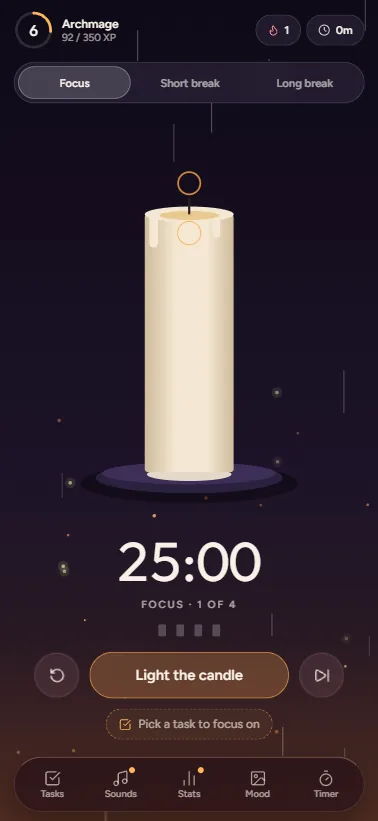
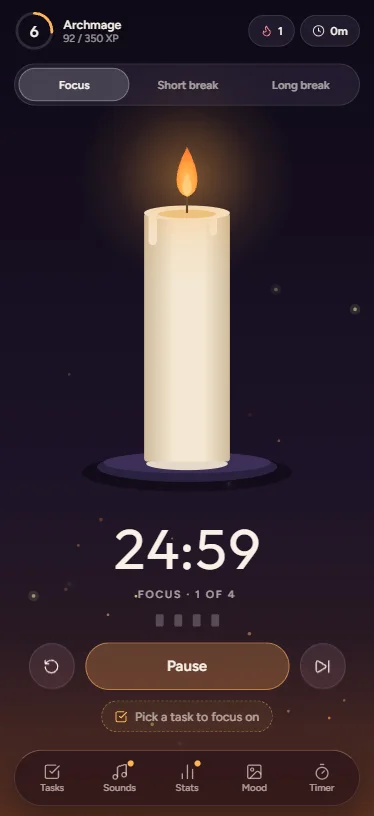
feat(landing): new phone screenshot beside the Android download
Swap mobile.webp for the new screenshots/mobile.png, update its alt text and aspect ratio, and note it in progress.md.

diff --git a/components/landing/content.ts b/components/landing/content.ts
@@ -65,8 +65,8 @@ export const GALLERY: readonly GallerySlide[] = [
 /** The phone screenshot, shown beside the Android download. */
 export const PHONE_SHOT = {
   source: require('@/assets/landing/mobile.webp') as ImageSourcePropType,
-  alt: 'Wickglow on a phone: a candle, the 25:00 timer, and the Light the candle button',
-  ratio: 378 / 821,
+  alt: 'Wickglow on a phone: a lit candle above a 24:59 focus timer, with the Pause button',
+  ratio: 374 / 816,
 };
 
 /** The slim bar under the hero: four short promises, each with a small icon. */

diff --git a/docs/agent/progress.md b/docs/agent/progress.md
@@ -20,7 +20,7 @@ A web landing page that explains Wickglow and offers the Android APK for downloa
 - Google Play release. See Google Play deployment.
 - EAS preview and production environments have no Firebase vars yet (only development does), so a `preview` APK build cannot reach Firebase until the seven vars are ticked for both on expo.dev. See `docs/feature/firebase.md`, Owner tasks.
 - Review fixes 2026-11-15: no session can start while a sign-out runs, and sign-out stops when storage could not be read at launch. A state taken from another tab keeps that tab's task edit times. Gallery arrows keep counting past either end. Privacy policy: removed the wrong Android streaming sentence. Pixabay licence note now covers lightly changed copies.
-- Landing gallery 2026-11-15: the pixel-art meadow (`desktop.webp`) is now the first slide. The third slide is a new Music panel shot (`desktop-2.webp`, from the new `screenshots/desktop-2.png`) and replaces the Amber one.
+- Landing gallery 2026-11-15: the pixel-art meadow (`desktop.webp`) is now the first slide. The third slide is a new Music panel shot (`desktop-2.webp`, from the new `screenshots/desktop-2.png`) and replaces the Amber one. The phone shot beside the Android download (`mobile.webp`) is the new `screenshots/mobile.png`.
 - C1 fixed 2026-11-15: every video left is cleared, and Night Hills was removed. See `BACKGROUND_LICENSES.md`. The landing page now waits only on the APK link.
 - App to landing page link 2026-11-15 (owner): web only, a quiet "About Wickglow" link as the last line of Timer settings (phone Timer tab, tablet side column, desktop settings card). It opens `/?home` (`LANDING_HOME_PATH`) in a new tab, so the returning-visitor script does not send it back and a running session keeps going.
 
